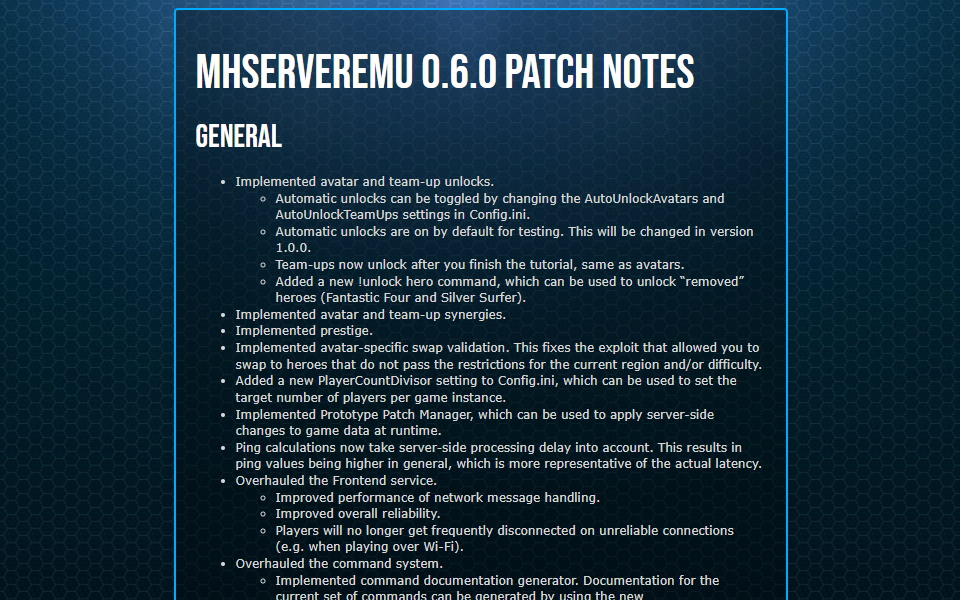
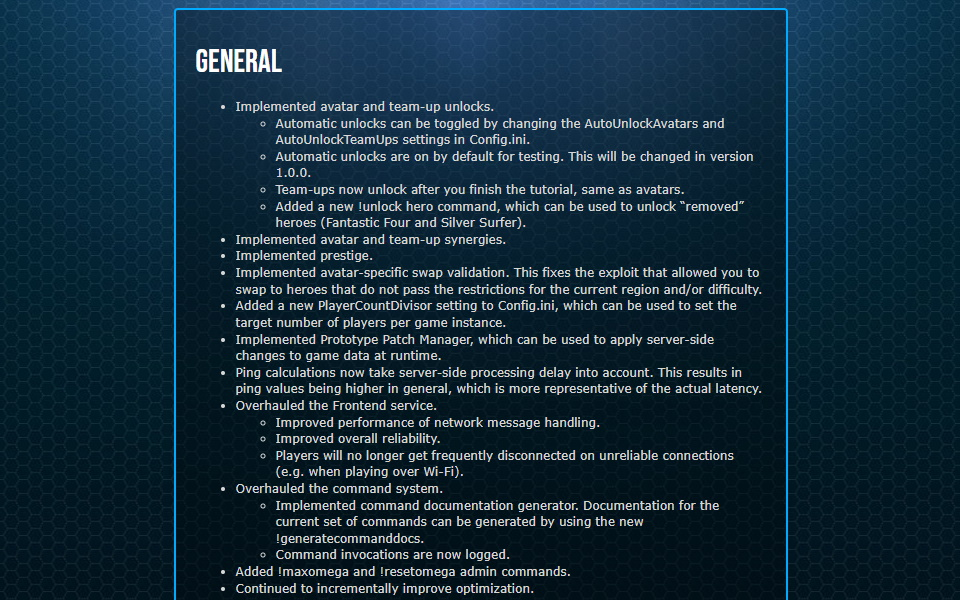
Clean up the news panel

Changed region(s): [[0.1875, 0.06, 0.8125, 1.0]]

diff --git a/news/css/main.css b/news/css/main.css
@@ -1,37 +1,32 @@
 @import url(../font/BebasNeue-Regular/BebasNeue-Regular.css);
 
-html {
-    overflow-y: visible;
-}
-
 body {
     margin: 0;
     padding: 0;
+    overflow: hidden;
+
     background: #00131a url(../images/background.jpg) no-repeat;
     background-size: auto;
-    overflow: hidden;
-}
-
-a {
-    text-decoration: none;
 }
 
 h1 {
+    display: block;
+    margin-top: 12px;
+    margin-bottom: 12px;
+    width: 100%;
+    text-align: center;
+
+    background-color: rgba(0, 0, 0, 0.15);
+    color: white;
     font-family: "Bebas Neue", sans-serif;
     font-weight: 400;
     font-style: normal;
     font-size: 48px;
-
-    color: white;
-    text-align: center;
-
-    background-color: rgba(0, 0, 0, 0.15);
     text-shadow: black 2px 2px;
-    width: 100%;
-    display: block;
+}
 
-    margin-top: 12px;
-    margin-bottom: 12px;
+a {
+    text-decoration: none;
 }
 
 .content-container {
@@ -39,27 +34,24 @@ h1 {
     height: 644px;
 }
 
-.top-slide-container {
-    margin: 4px;
-}
-
-.bottom-slide-container {
+.slide-container {
     margin: 4px;
 }
 
 .slide {
+    display: flex;
+    float: left;
+    margin: 2px;
+    align-items : center;
+    justify-content: center;
+    overflow: hidden;
+
     border: 2px solid #00aaff;
     border-radius: 4px;
-    color: #d7d7d7;
-    overflow: hidden;
     background-size: cover;
     background-position: 50%;
     background-repeat: no-repeat;
-    display : flex;
-    align-items : center;
-    justify-content: center;
-    float: left;
-    margin: 2px;
+    color: #d7d7d7;
 }
 
 .slide:hover {
@@ -77,16 +69,13 @@ h1 {
     height: 240px;
 }
 
-.slide span {
-    font: 24px Verdana;
-    text-align: center;
-}
-
 .slide-text-container {
+    align-self: flex-end;
     width: 100%;
     height: auto;
-    padding: 8px;
+    padding: 4px 8px;
+    
     background-color: rgba(0, 0, 0, 0.40);
+    font: 24px Verdana;
     text-shadow: black 2px 2px;
-    align-self: flex-end;
 }

diff --git a/news/index.html b/news/index.html
@@ -8,24 +8,24 @@
 </head>
 <body>
 <div class="content-container">
-    <h1>Welcome to MHServerEmu 0.6.0</h1>
-    <div class="top-slide-container">
+    <h1>Welcome to Your Local Server!</h1>
+    <div class="slide-container">
         <a href="#" onclick="myApi.OpenNewsUrl('http://localhost/news/patch-notes.html')">
             <div class="big-slide slide" style="background-image: url('images/big-slide-1.jpg')">
                 <div class="slide-text-container">
-                    <span>Patch Notes</span>
+                    <span>MHServerEmu 0.6.0 Patch Notes</span>
                 </div>
             </div>
         </a>
         <a href="#" onclick="myApi.OpenCatalogToItem('HomePage', '')">
             <div class="big-slide slide" style="background-image: url('images/big-slide-2.jpg')">
                 <div class="slide-text-container">
-                    <span>Store #ad #sponsored</span>
+                    <span>Store</span>
                 </div>
             </div>
         </a>
     </div>
-    <div class="bottom-slide-container">
+    <div class="slide-container">
         <a href="#" onclick="myApi.OpenExternalBrowserFromJS('https://github.com/Crypto137/MHServerEmu')">
         <div class="small-slide slide" style="background-image: url('images/small-slide-1.jpg')">
             <div class="slide-text-container">
@@ -40,14 +40,13 @@
             </div>
         </div>
         </a>
-                <a href="#" onclick="myApi.OpenExternalBrowserFromJS('https://discord.gg/hjR8Bj52t3')">
+        <a href="#" onclick="myApi.OpenExternalBrowserFromJS('https://discord.gg/hjR8Bj52t3')">
         <div class="small-slide slide" style="background-image: url('images/small-slide-3.jpg')">
             <div class="slide-text-container">
                 <span>Join Our Discord</span>
             </div>
         </div>
         </a>
-
     </div>
 </div>
 </body>

diff --git a/news/css/popup.css b/news/css/popup.css
@@ -3,18 +3,20 @@
 body {
     margin: 0;
     padding: 0;
+
     background: #00131a url(../images/background.jpg) no-repeat center top;
     background-size: auto;
     background-attachment: fixed; 
 }
 
 h1, h2, h3, h4, h5, h6  {
+    margin-top: 12px;
+    margin-bottom: 12px;
+
+    color: white;
     font-family: "Bebas Neue", sans-serif;
     font-weight: 400;
     font-style: normal;
-    color: white;
-    margin-top: 12px;
-    margin-bottom: 12px;
 }
 
 h1 {
@@ -30,30 +32,32 @@ li {
     font: 12px/1.385 Verdana;
 }
 
-.patch-notes-container {
-    width: 570px;
-    height: auto;
+.content-container {
     margin-left: auto;
     margin-right: auto;
     margin-top: 8px;
     margin-bottom: 8px;
+    width: 570px;
+    height: auto;
     padding: 20px;
+
     border: 2px solid #00aaff;
     border-radius: 4px;
     background-color: rgba(0, 9, 14, 0.40);
 }
 
 .close-button {
-    width: 570px;
-    height: auto;
     position: fixed;
     bottom: 16px;
-    color: #d7d7d7;
-    font: 18px/1.385 Verdana;
+    width: 570px;
+    height: auto;
     text-align: center;
+
     border: 2px solid #00aaff;
     border-radius: 4px;
     background-color: #00090E;
+    color: #d7d7d7;
+    font: 18px/1.385 Verdana;
 }
 
 .close-button:hover {

diff --git a/news/patch-notes.html b/news/patch-notes.html
@@ -4,10 +4,10 @@
     <meta charset="UTF-8">
     <meta name="viewport" content="width=device-width, initial-scale=1.0">
     <title>MHServerEmu 0.6.0 Patch Notes</title>
-    <link rel="stylesheet" href="css/patch-notes.css">
+    <link rel="stylesheet" href="css/popup.css">
 </head>
 <body>
-<div class="patch-notes-container">
+<div class="content-container">
 <h1>MHServerEmu 0.6.0 Patch Notes</h1>
 
 <h2>General</h2>
